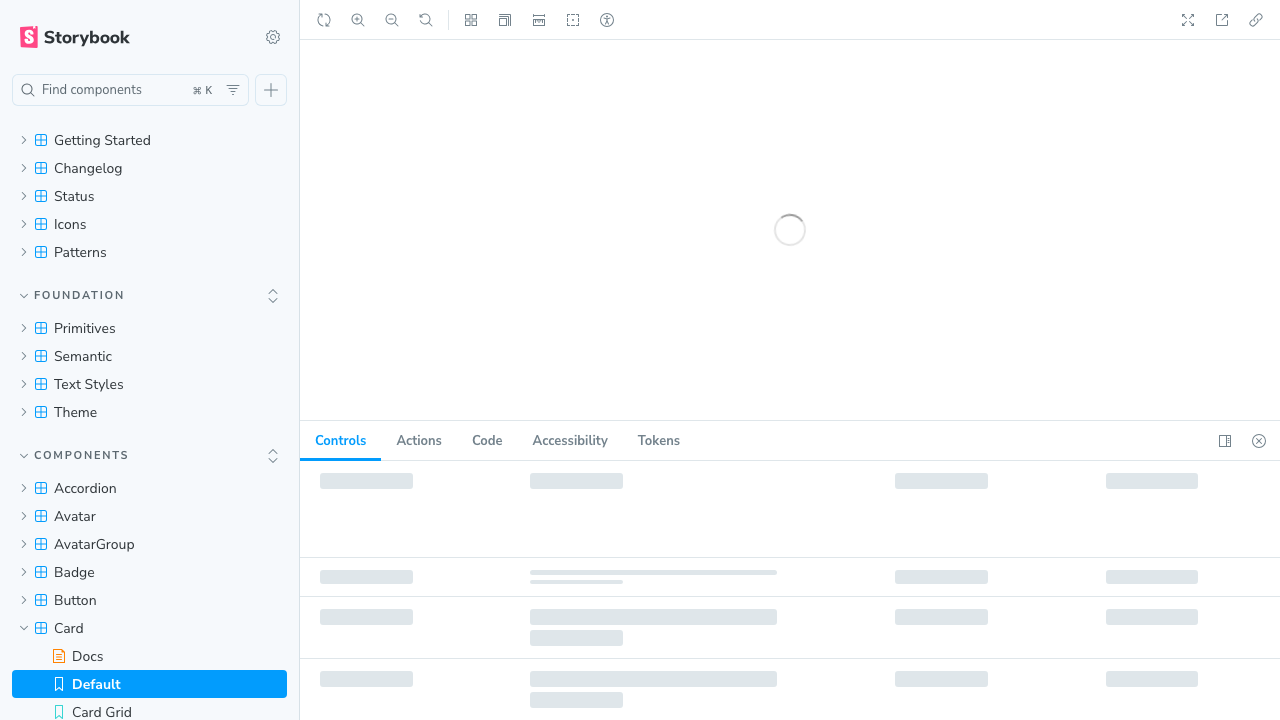
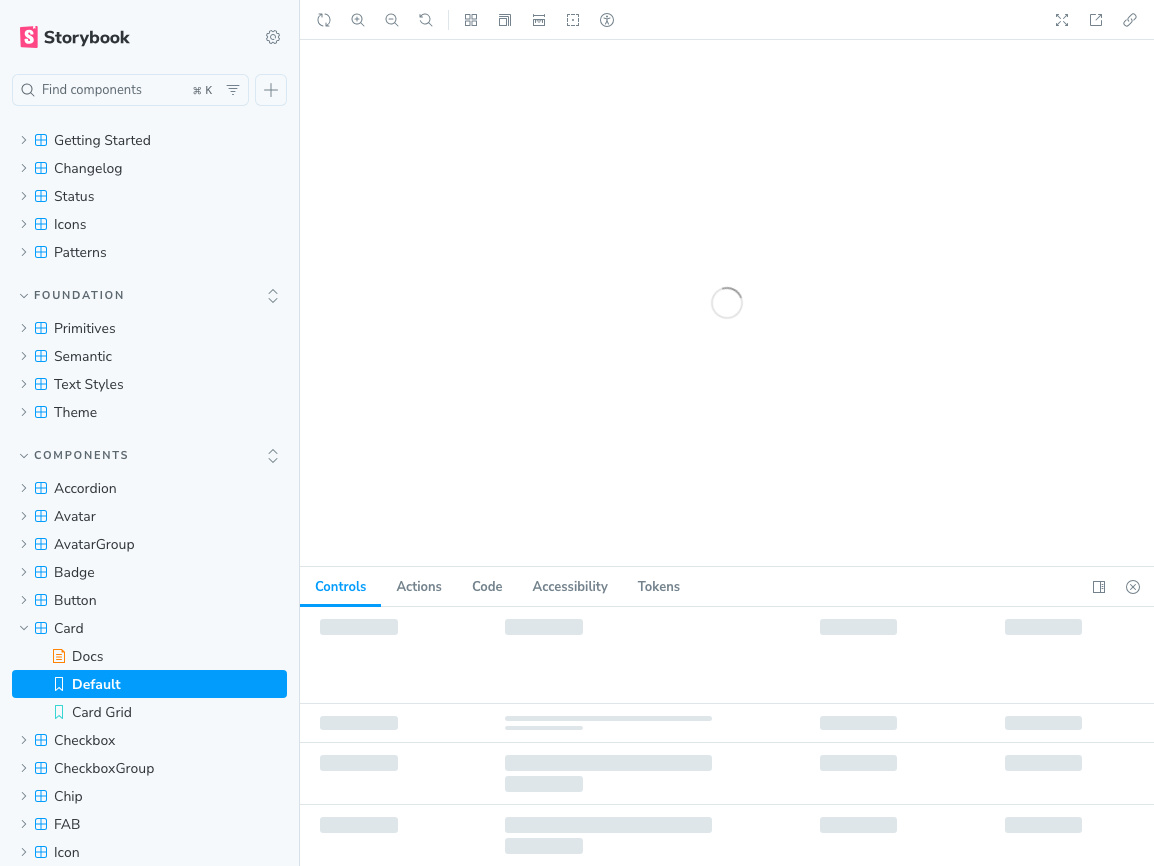
Document token surfaces and spacing zones

diff --git a/preview.js b/preview.js
@@ -160,7 +160,36 @@ function findGapChildren(container, axis) {
   return rects;
 }
 
-function drawDimensionLine(el, px, axis, category, isGap, color) {
+function getPaddingSides(item) {
+  if (Array.isArray(item?.paddingSides) && item.paddingSides.length) return item.paddingSides;
+  if (typeof item?.padding === 'string') {
+    const sides = item.padding.split(/[-,\s]+/).filter(Boolean).map(side => side === 'start' ? 'left' : side === 'end' ? 'right' : side);
+    if (sides.includes('all')) return ['top', 'right', 'bottom', 'left'];
+    return sides.filter(side => ['top', 'right', 'bottom', 'left'].includes(side));
+  }
+  return [];
+}
+
+function drawPaddingOverlay(el, px, sides, color) {
+  const rect = el.getBoundingClientRect();
+  const amount = Math.max(parseFloat(px) || 0, 0);
+  if (!amount || !sides.length) return false;
+  const overlay = document.createElement('div');
+  overlay.id = OVERLAY_ID;
+  overlay.style.cssText = 'position:fixed;inset:0;z-index:2147483647;pointer-events:none;';
+  const fill = `${color}42`;
+  const edge = `${color}b3`;
+  const zones = [];
+  if (sides.includes('top')) zones.push(`left:${rect.left}px;top:${rect.top}px;width:${rect.width}px;height:${Math.min(amount, rect.height)}px;`);
+  if (sides.includes('right')) zones.push(`left:${Math.max(rect.right - amount, rect.left)}px;top:${rect.top}px;width:${Math.min(amount, rect.width)}px;height:${rect.height}px;`);
+  if (sides.includes('bottom')) zones.push(`left:${rect.left}px;top:${Math.max(rect.bottom - amount, rect.top)}px;width:${rect.width}px;height:${Math.min(amount, rect.height)}px;`);
+  if (sides.includes('left')) zones.push(`left:${rect.left}px;top:${rect.top}px;width:${Math.min(amount, rect.width)}px;height:${rect.height}px;`);
+  overlay.innerHTML = zones.map(style => `<div style="position:fixed;${style}background:${fill};box-sizing:border-box;border:2px solid ${edge};"></div>`).join('');
+  document.body.appendChild(overlay);
+  return true;
+}
+
+function drawDimensionLine(el, px, axis, category, isGap, color, paddingSides = []) {
   const rect = el.getBoundingClientRect();
   const overlay = document.createElement('div');
   overlay.id = OVERLAY_ID;
@@ -185,6 +214,8 @@ function drawDimensionLine(el, px, axis, category, isGap, color) {
   // width); `spacing` measures a gap/inset, so the line's length is the token's own
   // resolved px value instead, never the component's size.
   const isSizing = category === 'sizing';
+
+  if (category === 'spacing' && paddingSides.length && drawPaddingOverlay(el, px, paddingSides, color)) return;
 
   // A "gap.*" row measures the space between two SPECIFIC children (e.g. a switch track
   // and its label) — draw the line exactly in that space, not at the outer container's
@@ -331,7 +362,7 @@ function applyHighlight(payload) {
     const el = targets[0];
     const px = resolvePx(token, value);
     const isGap = typeof label === 'string' && label.startsWith('gap.');
-    if (px) drawDimensionLine(el, px, getAxis(payload), category, isGap, config.highlightColor);
+    if (px) drawDimensionLine(el, px, getAxis(payload), category, isGap, config.highlightColor, getPaddingSides(payload));
     return;
   }
 }

diff --git a/register.js b/register.js
@@ -190,7 +190,7 @@ function TokensPanel({ active }) {
     channel.emit(
       TOKENS_HIGHLIGHT_EVENT,
       item
-        ? { part: item.part, variant: item.variant, category: getCategory(item), token: item.token, value: item.value, label: item.label, meta: item.meta, axis: item.axis, config }
+        ? { part: item.part, variant: item.variant, category: getCategory(item), token: item.token, value: item.value, label: item.label, meta: item.meta, axis: item.axis, padding: item.padding, paddingSides: item.paddingSides, relationship: item.relationship, colorRole: item.colorRole, config }
         : null,
     );
   }

diff --git a/README.md b/README.md
@@ -84,6 +84,11 @@ export const Primary = {
 Each item supports `part`, `label`, `token`, `value`, `kind`, `variant`, `size`,
 `state`, `axis`, and `meta`. See [CONTRACT.md](CONTRACT.md) for the complete contract.
 
+For color rows, add `colorRole: 'background' | 'text' | 'border' | 'icon' | 'asset'` so
+the panel explains which visual surface uses the color. For spacing, use `padding` or
+`paddingSides` for the exact padding zones, and `relationship` for gaps such as
+`icon-to-text` or `header-to-text`.
+
 `CONTRACT.md` is optional documentation, not a runtime dependency. The addon works
 without it as long as the story provides `parameters.tokens`, the component renders the
 configured DOM attribute, and the addon is registered in Storybook. Keep the contract when
@@ -158,6 +163,21 @@ pnpm pack --pack-destination /tmp/tokens-storybook-addon
 ```
 
 The package is intentionally small and has no runtime dependency on a token library.
+
+## Work with me
+
+I create design systems, component libraries, and AI-ready design tooling for freelance
+projects. For collaborations or consulting:
+
+- [Contact me through my website](https://martaconde.com)
+- [LinkedIn](https://www.linkedin.com/in/martacondedesign/)
+- [YouTube channel](https://www.youtube.com/@martacondedesign)
+
+## Free resources
+
+More free design-system and frontend resources are available at
+[martaconde.com](https://martaconde.com). Additional resources and downloads will be
+linked here as they are published.
 
 ## Author
 

diff --git a/CONTRACT.md b/CONTRACT.md
@@ -20,6 +20,10 @@ type TokenItem = {
   token?: string;
   value?: string;
   kind?: TokenKind;
+  colorRole?: 'background' | 'text' | 'border' | 'icon' | 'asset';
+  padding?: 'all' | 'top' | 'right' | 'bottom' | 'left' | string;
+  paddingSides?: Array<'top' | 'right' | 'bottom' | 'left'>;
+  relationship?: 'text-to-text' | 'header-to-text' | 'icon-to-text' | 'icon-to-header' | 'element-to-element' | 'element-to-text' | string;
   variant?: string;
   size?: string;
   state?: 'hover' | 'press' | 'disabled' | 'focus';
@@ -45,6 +49,16 @@ without a state control because they describe interactive states.
 Every distinct padding side and layout gap should have its own row. Set `axis` to the
 direction of the measured spacing. For sizing, the default axis is vertical; set
 `axis: 'horizontal'` only for a width measurement.
+
+Padding rows use `padding: 'all'` for the four sides, a single side such as `top`, or
+`paddingSides` for combinations such as `['top', 'right']`. The preview paints only those
+zones with a translucent lilac layer and shows the pixel value in the table. Spacing rows
+are relationships between named elements, such as `icon-to-text` or `header-to-text`,
+not padding on the container.
+
+Color rows must declare the surface they describe with `colorRole`: `background`, `text`,
+`border`, `icon`, or `asset`. For an asset, use the most specific DOM part for each
+recolorable layer when the illustration contains multiple colors.
 
 ## DOM contract
 
